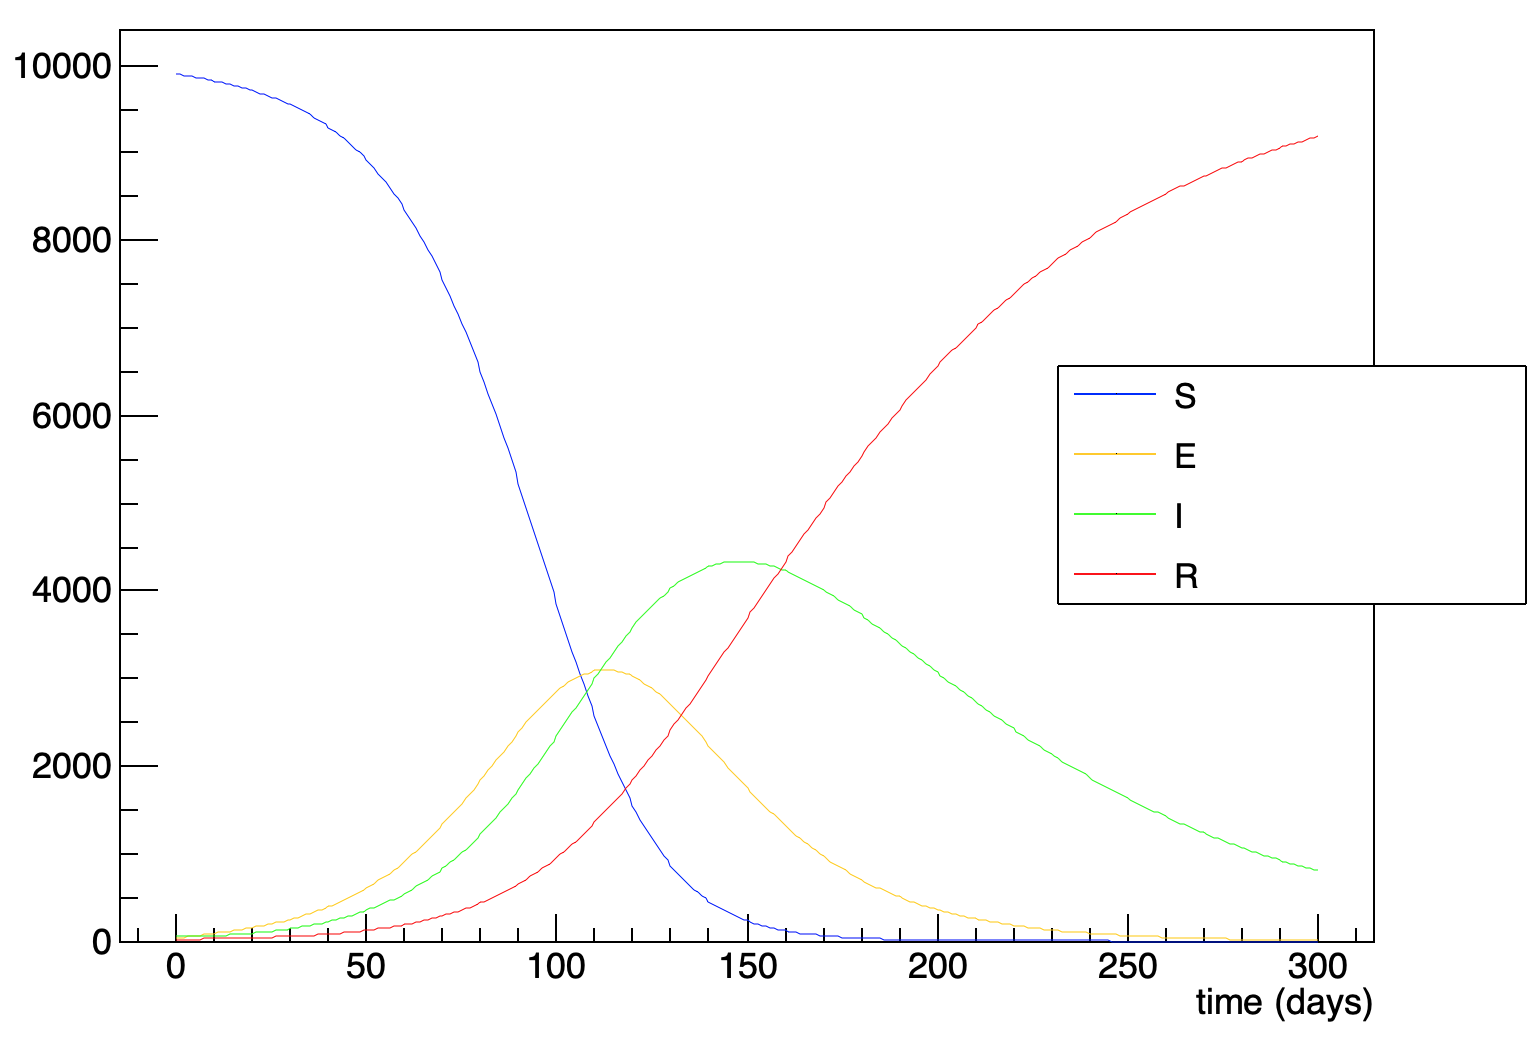
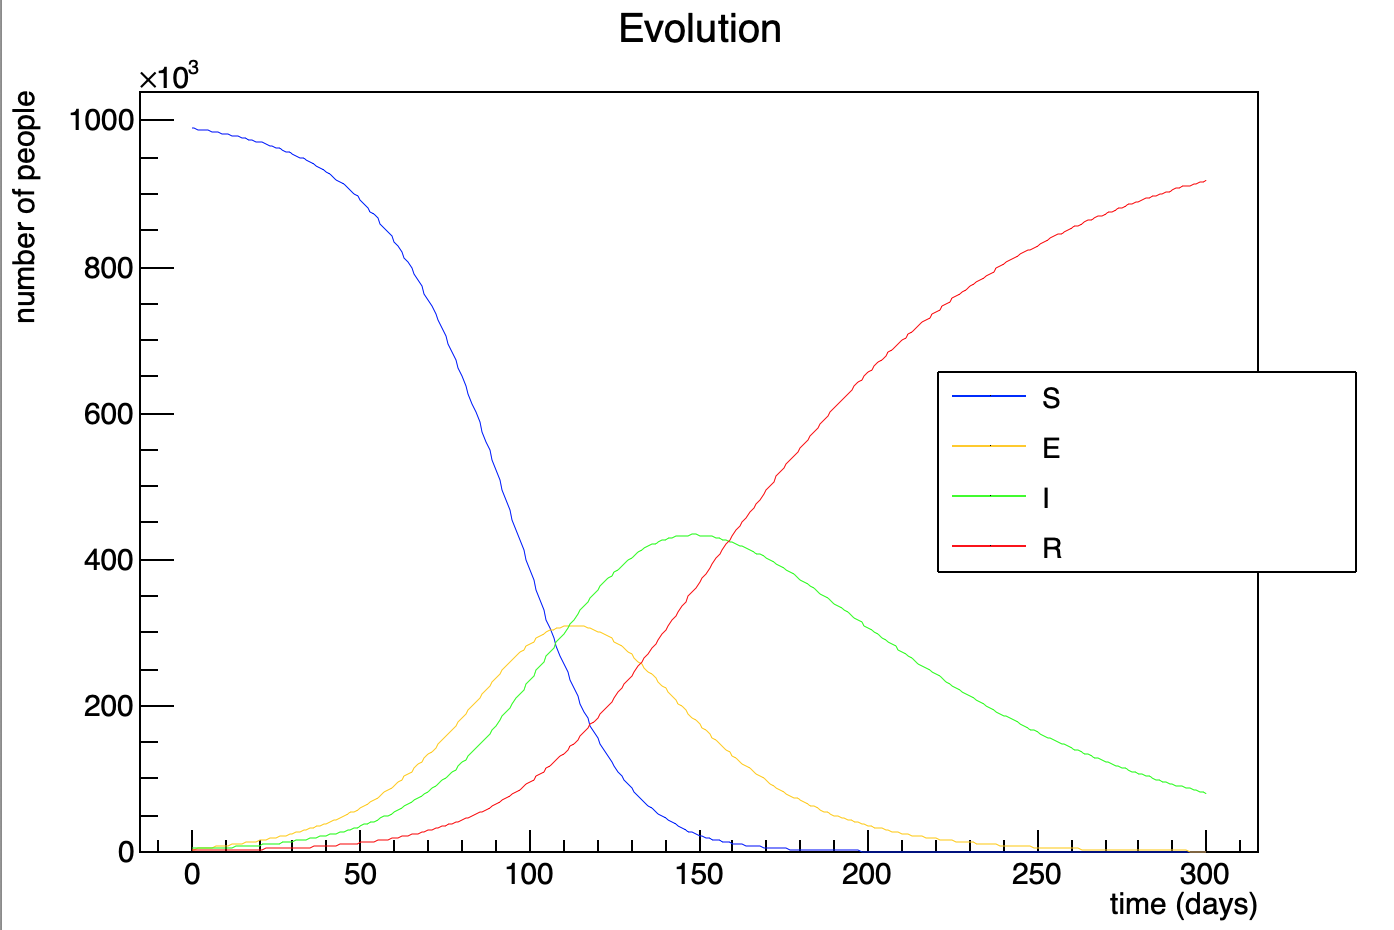
Added photo of seir def values

diff --git a/include/simulation/parameters.hpp b/include/simulation/parameters.hpp
@@ -33,7 +33,7 @@ double constexpr MAX_PAUSE = 15.0;
 double constexpr MIN_PAUSE = 5.0;
 double constexpr SPREAD_RADIUS = 1.0;
 ////////////////////////////  DEFAULT SEIR MODEL PARAMETERS ////////////////////////////
-int constexpr DEF_SEIR_PEOPLE = 10000;
+int constexpr DEF_SEIR_PEOPLE = 1000000;
 double constexpr DEF_SEIR_S = 0.99;
 double constexpr DEF_SEIR_E = 0.003;
 double constexpr DEF_SEIR_I = 0.005;
